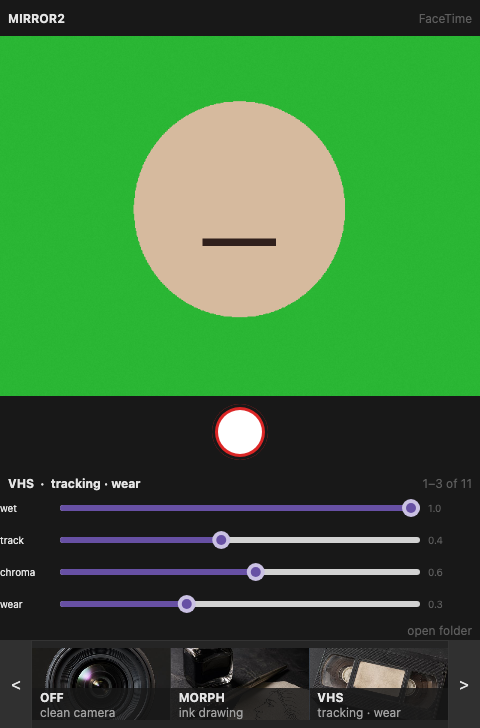
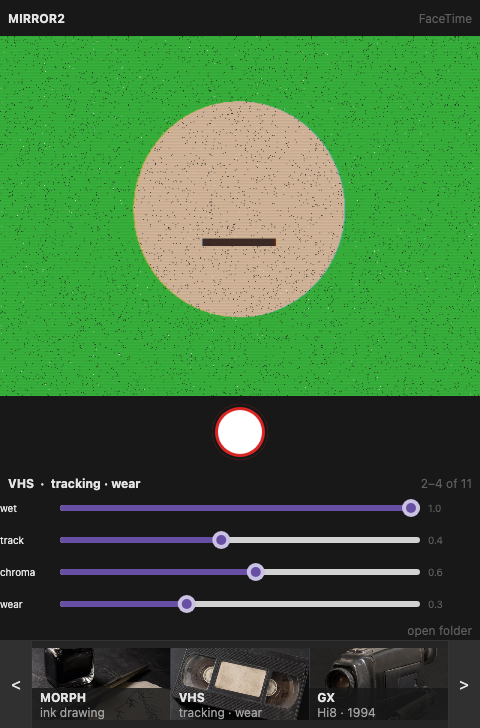
Expand README screenshots across looks and tape dock page.
Captures MORPH, D8, SAT, CCTV, RIPPLE, and a wave-2 tape catalog dock shot alongside OFF and VHS.

diff --git a/src/main.rs b/src/main.rs
@@ -1450,28 +1450,63 @@ mod slider_ui_tests {
         camera::set_preview_for_test(pw, ph, rgba);
     }
 
+    fn page_dock_to(test: &mut TestingRunner, start: usize) {
+        for _ in 0..start {
+            click_label(test, ">");
+        }
+    }
+
+    fn render_look_shot(shots: &Path, look: Look, filename: &str) {
+        camera::set_status_for_test(CameraStatus::Live {
+            name: "FaceTime HD Camera".into(),
+        });
+        seed_preview(look);
+
+        let idx = Look::RAIL.iter().position(|&l| l == look).unwrap();
+        let dock_start = idx.saturating_sub(1).min(dock_max());
+
+        let mut test =
+            TestingRunner::new(app, Size2D::new(theme::WINDOW_W, theme::WINDOW_H), |_| {}, 1.0).0;
+        test.sync_and_update();
+        page_dock_to(&mut test, dock_start);
+        test.sync_and_update();
+        click_label(&mut test, look.tile_line());
+        test.sync_and_update();
+
+        let path = shots.join(filename);
+        test.render_to_file(&path);
+        assert!(path.exists(), "wrote {path:?}");
+    }
+
+    fn render_dock_page(shots: &Path, start: usize, filename: &str) {
+        camera::set_status_for_test(CameraStatus::Live {
+            name: "FaceTime HD Camera".into(),
+        });
+        seed_preview(Look::None);
+
+        let mut test =
+            TestingRunner::new(app, Size2D::new(theme::WINDOW_W, theme::WINDOW_H), |_| {}, 1.0).0;
+        test.sync_and_update();
+        page_dock_to(&mut test, start);
+        test.sync_and_update();
+
+        let path = shots.join(filename);
+        test.render_to_file(&path);
+        assert!(path.exists(), "wrote {path:?}");
+    }
+
     #[test]
     fn export_readme_screenshots() {
         let shots = Path::new(env!("CARGO_MANIFEST_DIR")).join("docs/screenshots");
         std::fs::create_dir_all(&shots).expect("docs/screenshots");
 
-        camera::set_status_for_test(CameraStatus::Live {
-            name: "FaceTime HD Camera".into(),
-        });
-
-        seed_preview(Look::None);
-        let mut off = TestingRunner::new(app, Size2D::new(theme::WINDOW_W, theme::WINDOW_H), |_| {}, 1.0).0;
-        off.sync_and_update();
-        let off_path = shots.join("mirror2-off.png");
-        off.render_to_file(&off_path);
-        assert!(off_path.exists());
-
-        seed_preview(Look::Vhs);
-        let mut vhs = TestingRunner::new(app, Size2D::new(theme::WINDOW_W, theme::WINDOW_H), |_| {}, 1.0).0;
-        vhs.sync_and_update();
-        click_label(&mut vhs, "tracking · wear");
-        let vhs_path = shots.join("mirror2-vhs.png");
-        vhs.render_to_file(&vhs_path);
-        assert!(vhs_path.exists());
+        render_look_shot(&shots, Look::None, "mirror2-off.png");
+        render_look_shot(&shots, Look::Morph, "mirror2-morph.png");
+        render_look_shot(&shots, Look::Vhs, "mirror2-vhs.png");
+        render_look_shot(&shots, Look::D8, "mirror2-d8.png");
+        render_look_shot(&shots, Look::Sat, "mirror2-sat.png");
+        render_look_shot(&shots, Look::Cctv, "mirror2-cctv.png");
+        render_look_shot(&shots, Look::Ripple, "mirror2-ripple.png");
+        render_dock_page(&shots, 4, "mirror2-dock-tape.png");
     }
 }

diff --git a/README.md b/README.md
@@ -8,9 +8,17 @@ You sit. You pick a look. The camera well is always the preview. You keep a stil
 
 ## Screenshots
 
-| Clean camera | VHS · tracking · wear |
+| Clean camera | MORPH · ink drawing | VHS · tracking · wear |
+|:---:|:---:|:---:|
+| ![OFF](docs/screenshots/mirror2-off.png) | ![MORPH](docs/screenshots/mirror2-morph.png) | ![VHS](docs/screenshots/mirror2-vhs.png) |
+
+| D8 · block · digital | SAT · rain · macro | CCTV · blocky · crushed |
+|:---:|:---:|:---:|
+| ![D8](docs/screenshots/mirror2-d8.png) | ![SAT](docs/screenshots/mirror2-sat.png) | ![CCTV](docs/screenshots/mirror2-cctv.png) |
+
+| RIPPLE · water rings | Tape catalog dock (UHF · BETA · D8) |
 |:---:|:---:|
-| ![Mirror2 — OFF / clean camera](docs/screenshots/mirror2-off.png) | ![Mirror2 — VHS look with wet sliders](docs/screenshots/mirror2-vhs.png) |
+| ![RIPPLE](docs/screenshots/mirror2-ripple.png) | ![dock](docs/screenshots/mirror2-dock-tape.png) |
 
 Dock cards are photoreal still-life specimens. Chevrons page through 11 looks.
 
